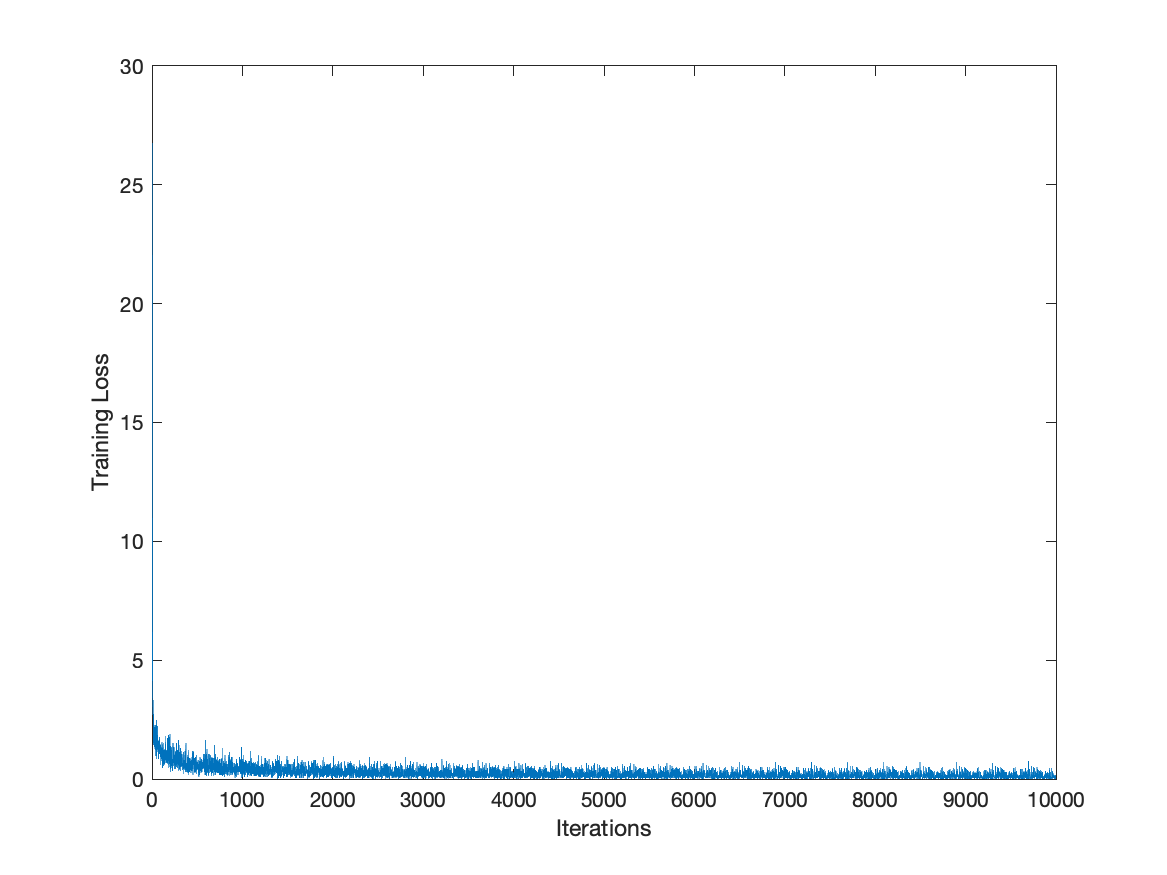
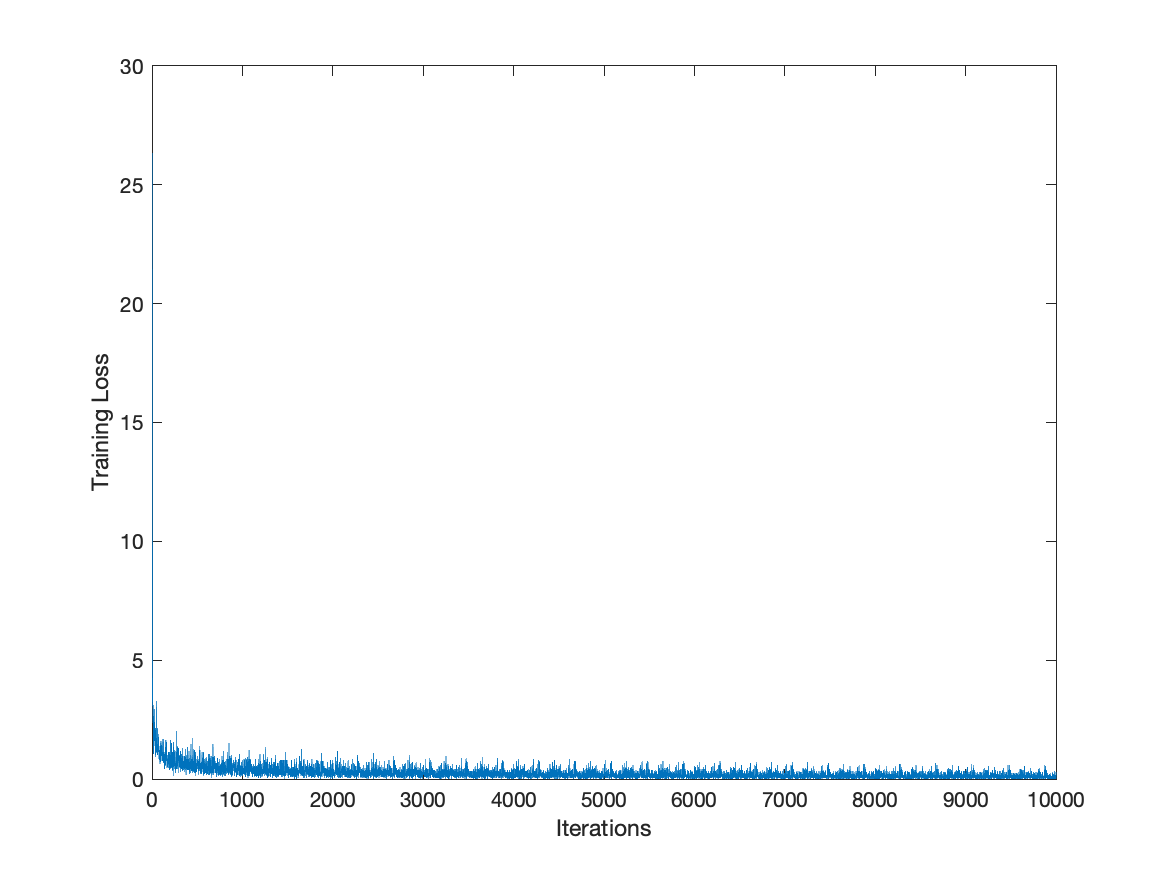
cnn back upload

Changed region(s): [[0.1234, 0.8331, 0.8946, 0.8949]]

diff --git a/HW4/SOURCE/debug.m b/HW4/SOURCE/debug.m
@@ -1,11 +1,10 @@
 clear all
 close all
 clc
-
+%%
 load('mnist_train.mat');
 load('mnist_test.mat');
 %%
-% Data preprocessing
 batch_size = 30;
 im_train = im_train/255;
 im_test = im_test/255;
@@ -14,58 +13,31 @@ im_test = im_test/255;
 num_batches = size(mini_batch_y,2);
 input_length = size(mini_batch_x{1}(:,1),1);
 num_classes = size(mini_batch_y{1}(:,1),1);
-%%
+
 rng('default')
-learning_rate = 0.1;
-decay_rate = 0.9;
-w = normrnd(0,1,[num_classes,input_length]);
-b = normrnd(0,1,[num_classes,1]);
+learning_rate = 0.6;
+decay_rate = 0.99;
+w_conv = normrnd(0,1,[3,3,1,3]);
+b_conv = normrnd(0,1,[3,1]);
+w_fc = normrnd(0,1,[10,147]);
+b_fc = normrnd(0,1,[10,1]);
 k=1;
 nIter = 10000;
 L = zeros(nIter,1);
-w_old = w;
-b_old = b;
 %%
-for iter=1:nIter
-    if ~rem(iter, 1000)
-        learning_rate = decay_rate*learning_rate;
-    end
-    dLdw = 0;
-    dLdb = 0;
-    num_images = size(mini_batch_x{k}, 2);
-    for image=1:num_images
-        y=FC(mini_batch_x{k}(:,image),w,b);
-        [Loss,dLdy] = Loss_cross_entropy_softmax(y, mini_batch_y{k}(:, image));
-        L(iter) = L(iter) + Loss;
-        [~,dldw,dldb] = FC_backward(dLdy,mini_batch_x{k}(:,image),w,b,mini_batch_y{k}(:, image));
-        dLdw = dLdw + dldw;
-        dLdb = dLdb + dldb;
-    end
-    k=k+1;
-    if k > num_batches
-        k = 1;
-    end
-    w = w-(learning_rate*dLdw')/num_images;
-    b = b-(learning_rate*dLdb')/num_images;
-    L(iter) = L(iter)/num_images;
-    L(iter)
-end
-%%
-figure(2);
-plot(L);
-ylim([-0.1 20]);
-%%
-%%%%%%%%%%%%%%%%%%%%%%%%%%%%%%%%%%%%%
 image=1;
-x = mini_batch_x{k}(:,image);
-y = mini_batch_y{k}(:, image);
-y_tilde = SoftMax(FC(x,w,b));
-L = -sum(y.*log(y_tilde));
-dLdy = y_tilde-y;
+x = reshape(mini_batch_x{k}(:,image), [14, 14, 1]);
+a1=Conv(x,w_conv,b_conv);
+f1 = ReLu(a1);
+f2 = Pool2x2(f1);
+f3 = Flattening(f2);
+a2 = FC(f3,w_fc,b_fc);
 %%
-dLdy_tilde = -(1./y_tilde)';
-dy_tildedx = diag(y_tilde)-(y_tilde*y_tilde');
-dLdy = dLdy_tilde*dy_tildedx;
+[Loss,dlda2] = Loss_cross_entropy_softmax(a2, mini_batch_y{k}(:, image));
+[dldf3,dldw_fc,dldb_fc] = FC_backward(dlda2,f3,w_fc,b_fc,a2);
+dldf2 = Flattening_backward(dldf3,f2,f3);
+dldf1 = Pool2x2_backward(dldf2,f1,f2);
+dlda1 = ReLu_backward(dldf1,a1,f1);
 %%
-[Loss,dLdy] = Loss_cross_entropy_softmax(y_tilde,y);
-[~,dldw,dldb] = FC_backward(dLdy,mini_batch_x{k}(:,image),w,b,mini_batch_y{k}(:, image));
+[dldw_conv, dldb_conv] = Conv_backward(dlda1,x,w_conv,b_conv,a1);
+%%

diff --git a/HW4/SOURCE/TrainCNN.m b/HW4/SOURCE/TrainCNN.m
@@ -1,0 +1,59 @@
+function [w_conv, b_conv, w_fc, b_fc] = TrainCNN(mini_batch_x, mini_batch_y)
+    num_batches = size(mini_batch_y,2);
+    input_length = size(mini_batch_x{1}(:,1),1);
+    num_classes = size(mini_batch_y{1}(:,1),1);
+
+    rng('default')
+    learning_rate = 0.2;
+    decay_rate = 0.9;
+    w_conv = normrnd(0,1,[3,3,1,3]);
+    b_conv = normrnd(0,1,[3,1]);
+    w_fc = normrnd(0,1,[10,147]);
+    b_fc = normrnd(0,1,[10,1]);
+    k=1;
+    nIter = 10000;
+    L = zeros(nIter,1);
+    for iter=1:nIter
+        iter
+        if ~rem(iter, 1000)
+            learning_rate = decay_rate*learning_rate;
+        end
+        dLdw_conv = 0;
+        dLdb_conv = 0;
+        dLdw_fc = 0;
+        dLdb_fc = 0;
+        num_images = size(mini_batch_x{k}, 2);
+        for image=1:num_images
+            x = reshape(mini_batch_x{k}(:,image), [14, 14, 1]);
+            a1=Conv(x,w_conv,b_conv);
+            f1 = ReLu(a1);
+            f2 = Pool2x2(f1);
+            f3 = Flattening(f2);
+            a2 = FC(f3,w_fc,b_fc);
+
+            [Loss,dlda2] = Loss_cross_entropy_softmax(a2, mini_batch_y{k}(:, image));
+            L(iter) = L(iter) + Loss;
+            
+            [dldf3,dldw_fc,dldb_fc] = FC_backward(dlda2,f3,w_fc,b_fc,a2);
+            dldf2 = Flattening_backward(dldf3,f2,f3);
+            dldf1 = Pool2x2_backward(dldf2,f1,f2);
+            dlda1 = ReLu_backward(dldf1,a1,f1);
+            [dldw_conv, dldb_conv] = Conv_backward(dlda1,x,w_conv,b_conv,a1);
+                        
+            dLdw_conv = dLdw_conv + dldw_conv;
+            dLdb_conv = dLdb_conv + dldb_conv;
+            dLdw_fc = dLdw_fc + dldw_fc;
+            dLdb_fc = dLdb_fc + dldb_fc;
+        end
+        k=k+1;
+        if k > num_batches
+            k = 1;
+        end
+        w_conv = w_conv-(learning_rate*dLdw_conv)/num_images;
+        b_conv = b_conv-(learning_rate*dLdb_conv)/num_images;
+        w_fc = w_fc-(learning_rate*dLdw_fc')/num_images;
+        b_fc = b_fc-(learning_rate*dLdb_fc')/num_images;
+        L(iter) = L(iter)/num_images;
+    end
+    PlotLoss(L,"CNN");
+end

diff --git a/HW4/SOURCE/AB_Pool2x2_backward.m b/HW4/SOURCE/AB_Pool2x2_backward.m
@@ -1,0 +1,26 @@
+function [dLdx] = AB_Pool2x2_backward(dLdy, x, y)
+    [H, W, C] = size(dLdy);
+    assert(size(dLdy) == size(y));
+    dLdx = zeros([H, W, C]);
+    for h = 1 : H
+        for w = 1 : W
+            for c = 1 : C
+                % corners of current "slice" from input
+                vert_start = (h-1)*stride + 1;
+                vert_end = vert_start + f - 1;
+                horiz_start = (w-1)*stride + 1;
+                horiz_end = horiz_start + f - 1;
+                    
+                % using corners to define the (3D) slice of x
+                x_slice = x(vert_start:vert_end, horiz_start:horiz_end, c);
+                x_slice_iden = (x_slice == max(x_slice, [], 'all'));
+                % convolve (3D) slice with correct filter w_conv and bias b_conv
+                % to get output of corresponding pixel in output
+                dLdx(vert_start:vert_end, horiz_start:horiz_end, c) = ...
+                    dLdx(vert_start:vert_end, horiz_start:horiz_end, c) + ...
+                        (x_slice_iden * dLdy(h, w, c));
+            end
+        end
+    end
+    
+end 

diff --git a/HW4/SOURCE/main_cnn.m b/HW4/SOURCE/main_cnn.m
@@ -19,17 +19,17 @@ acc = 0;
 confusion = zeros(10,10);
 for iTest = 1 : size(im_test,2)
     x = reshape(im_test(:,iTest), [14, 14, 1]);
-    pred1 = Conv(x, w_conv, b_conv, 1); 
+    pred1 = Conv(x, w_conv, b_conv); 
     pred2 = ReLu(pred1);
-    pred3 = MaxPool2x2(pred2);
-    pred4 = Flat(pred3);
+    pred3 = Pool2x2(pred2);
+    pred4 = Flattening(pred3);
     pred5 = FC(pred4, w_fc, b_fc);
     y = SoftMax(pred5);
     
     [~,l] = max(y);
     confusion(label_test(iTest)+1, l) = confusion(label_test(iTest)+1, l) + 1;
     
-    if l == label_test(iData)+1
+    if l == label_test(iTest)+1
         acc = acc + 1;
     end    
 end
@@ -40,7 +40,7 @@ end
 
 categories = {'0', '1', '2', '3', '4', '5', '6', '7', '8', '9'};
 
-fig_handle = figure(1);
+fig_handle = figure();
 clf;
 imagesc(confusion, [0, 1]);
 set(fig_handle, 'Color', [.988, .988, .988])
@@ -50,3 +50,4 @@ set(axis_handle, 'XTickLabel', categories)
 set(axis_handle, 'YTick', 1:10)
 set(axis_handle, 'YTickLabel', categories)
 xlabel(sprintf('Accuracy: %f', accuracy));
+saveas(fig_handle,'../RESULT/CNN_CONFUSION.png')

diff --git a/HW4/SOURCE/Conv_backward.m b/HW4/SOURCE/Conv_backward.m
@@ -2,4 +2,17 @@ function [dLdw, dLdb] = Conv_backward(dLdy, x, w_conv, b_conv, y)
     [H,W,C1]=size(x);
     [~,f,~,C2]=size(w_conv);
     padded_x = padarray(x, [(f-1)/2,(f-1)/2]);
+    dLdw = zeros(size(w_conv));
+    dLdb = zeros(size(b_conv));
+    for filter=1:C2
+        dldw = zeros([f,f,C1]);
+        for c=1:C1
+            dldy = dLdy(:,:,filter);
+            col_x = im2col(padded_x(:,:,c),[f,f],'sliding');
+            col_x = col_x';
+            dldw(:,:,c) = reshape(dldy(:)'*col_x, [f,f]);
+        end
+        dLdw(:,:,:,filter) = dldw;
+        dLdb(filter) = sum(sum(dLdy(:,:,filter)));
+    end
 end

diff --git a/HW4/SOURCE/Pool2x2_backward.m b/HW4/SOURCE/Pool2x2_backward.m
@@ -1,0 +1,17 @@
+function [dLdx] = Pool2x2_backward(dLdy, x, y)
+    dLdx = zeros(size(x));
+    for channel=1:size(x,3)
+        x_col = im2col(x(:,:,channel),[2,2],'distinct');
+        y_col = y(:,:,channel);
+        y_col = y_col(:);
+        dldy = dLdy(:,:,channel);
+        dldy_col = dldy(:);
+        dldx = zeros(size(x_col));
+        for col=1:size(x_col,2)
+            id = find(x_col(:,col)==y_col(col));
+            dldx(id,col) = dldy_col(col);
+        end
+        dldx = col2im(dldx,[2,2],size(x),'distinct');
+        dLdx(:,:,channel) = dldx;
+    end
+end    

diff --git a/HW4/SOURCE/Pool2x2.m b/HW4/SOURCE/Pool2x2.m
@@ -1,7 +1,7 @@
 function [y] = Pool2x2(x)
-    y = zeros(size(x,1)/2,size(x,2)/2,size(x,3));
+    y = zeros([int16(size(x,1)/2),int16(size(x,2)/2),int16(size(x,3))]);
     for channel=1:size(x,3)
         image_col = im2col(x(:,:,channel),[2,2],'distinct');
-        y(:,:,channel) = reshape(max(image_col), [size(x,1)/2,size(x,2)/2]);
+        y(:,:,channel) = reshape(max(image_col), [int16(size(x,1)/2),int16(size(x,2)/2)]);
     end
 end

diff --git a/HW4/SOURCE/Conv.m b/HW4/SOURCE/Conv.m
@@ -7,7 +7,7 @@ function [y] = Conv(x, w_conv, b_conv)
         y_filter = zeros(H,W,C1);
         for c=1:C1
             col_x = im2col(padded_x(:,:,c),[f,f],'sliding');
-            w = w_conv(:,:,c,1);
+            w = w_conv(:,:,c,filter);
             y_filter(:,:,c) = reshape(w(:)'*col_x,[H,W]);
         end
         bias = b_conv(filter)*ones([H,W]);

diff --git a/HW4/SOURCE/ReLu_backward.m b/HW4/SOURCE/ReLu_backward.m
@@ -1,4 +1,8 @@
 function [dLdx] = ReLu_backward(dLdy, x, y)
     dLdx = dLdy;
-    dLdx(x'<0) = 0;
+    if size(x)>2
+        dLdx(x<0) = 0;
+    else
+        dLdx(x'<0) = 0;
+    end
 end
